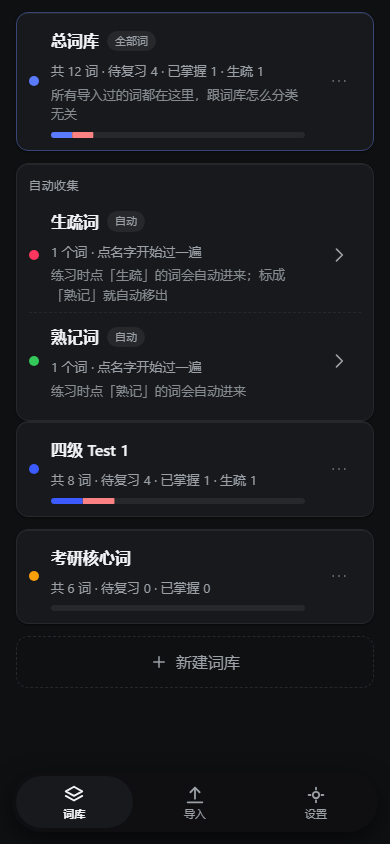
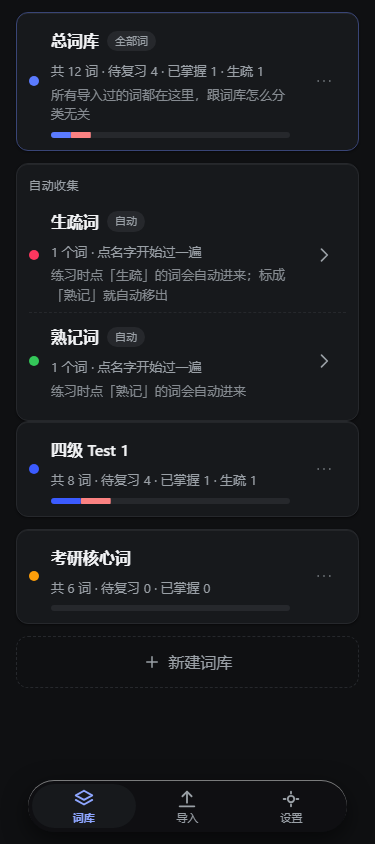
底部胶囊按参考视频收窄 + 换成滑动指示器（v19）
拿用户给的 iCost 录屏逐帧量了几何与动效，然后照着改：

尺寸（量出来的）：胶囊 331×53pt、左右留 30pt、格距 87pt、占屏宽 85%；我们原来是左右 12、占宽 94%。
- 改成左右各 28（= 24+4）、高 52（每格 44，卡住无障碍下限）、占宽 ≈85%。
- 补上玻璃上沿那道细亮边：box-shadow 第二层 inset 0 1px 0 rgb(255 255 255 / 45%)。

动效（视频实测：响应 ≤1 帧、滑动全程 167ms、路过中间格、颜色交叉淡入、到达后冲过一点再回落 ~2.3%、内容不参与动画）：
- 选中态从各格自己换背景改成一颗白药丸滑到目标格（translateX(var(--nav-i) * 100%)），同一时刻只有一个东西在动。
- 时长 170ms（--dur-ui）+ 过冲 2~3%（新增 --ease-nav，比 --ease-spring-soft 的 5% 更贴视频）。
- 图标与文字颜色交叉淡入（--fade-ui）；选中格文字用 --accent-text 变蓝（形状+颜色两条通道）。
- 内容区不做横向位移；prefers-reduced-motion 下位移归零、只留颜色变化。

顺带修一个真 bug：滚动条出现/消失会让底部胶囊宽度横跳 15px（短页面↔长页面切换时可见），
加 html { scrollbar-gutter: stable } 兜住。这个是写动效测试时量出来的。

测试：ui-nav 从 15 项扩到 38 项，其中 5 项直接采样 getComputedStyle 的 transform 逐帧验证
（有没有动、170ms 内到位、过冲 2~8px、最后停在目标格、内容没被推走），另有尺寸/可访问性断言；
a11y 增加减弱动效下指示器不滑动。verify_all 19 步全绿。

diff --git a/tests/browser/ui-nav.test.html b/tests/browser/ui-nav.test.html
@@ -8,58 +8,159 @@
 <pre id="result">{"stage":"running"}</pre>
 <script src="trap.js"></script>
 <script type="module">
-/* 底部悬浮胶囊导航（v18）。
-   用户定的：词库 / 导入 / 设置 三项，导入和设置以前挂在首页页脚，现在收进这里。
+/* 底部悬浮胶囊导航（v18 建立，v19 按参考视频调尺寸 + 换成滑动指示器）。
    跑法：python tool/browser_test.py tests/browser/ui-nav.test.html
 */
-import { click, eq, holdLoad, ok, openApp, report, waitFor } from './harness.js';
+import { click, eq, holdLoad, ok, openApp, report, wait, waitFor } from './harness.js';
 
 const release = holdLoad();
+
+/** 取 computed transform 的横向位移（矩阵的 e 分量），没有 transform 就是 0 */
+function txOf(win, node) {
+  const t = win.getComputedStyle(node).transform;
+  if (!t || t === 'none') return 0;
+  const m = t.match(/matrix\(([^)]+)\)/);
+  return m ? Number(m[1].split(',')[4]) : 0;
+}
 
 try {
   const frame = await openApp({ hash: '#/', sel: '#view-home:not([hidden])' });
   const doc = frame.contentDocument;
+  const win = frame.contentWindow;
+  const bar = doc.querySelector('#tabbar');
   const tabs = [...doc.querySelectorAll('#tabbar a')];
 
   eq('胶囊里是三项', tabs.length, 3);
   eq('三项分别是词库/导入/设置', tabs.map((a) => a.dataset.nav).join(','), 'home,import,settings');
   ok('每项都有内联 SVG 图标', tabs.every((a) => a.querySelector('svg path')), '有的项没有 svg');
-  ok('每项都有可见文字', tabs.every((a) => a.textContent.trim().length > 0), tabs.map((a) => a.textContent.trim()).join('|'));
   eq('在首页时"词库"是当前项', doc.querySelector('#tabbar a[data-nav="home"]').getAttribute('aria-current'), 'page');
   ok('没选中的项不带 aria-current', !doc.querySelector('#tabbar a[data-nav="import"]').hasAttribute('aria-current'));
 
-  // 点按目标：手机上要够大（无障碍）
-  const box = tabs[0].getBoundingClientRect();
-  ok('点按区域 ≥44px 高', box.height >= 44, `${Math.round(box.height)}px`);
-
-  // 悬浮胶囊：内缩 + 离底，不是通栏横条
-  const bar = doc.querySelector('#tabbar').getBoundingClientRect();
+  // ---------------- 尺寸：照着参考视频量出来的比例 ----------------
+  const box = bar.getBoundingClientRect();
   const vw = doc.documentElement.clientWidth;
   const vh = doc.documentElement.clientHeight;
-  ok('胶囊左右内缩（不是通栏横条）', bar.left > 0 && bar.right < vw, `left=${Math.round(bar.left)} right=${Math.round(bar.right)} vw=${vw}`);
-  ok('胶囊底部离屏幕下沿有距离', bar.bottom < vh, `bottom=${Math.round(bar.bottom)} vh=${vh}`);
-  ok('胶囊有圆角（药丸形）', parseFloat(frame.contentWindow.getComputedStyle(doc.querySelector('#tabbar')).borderTopLeftRadius) >= 20,
-     frame.contentWindow.getComputedStyle(doc.querySelector('#tabbar')).borderTopLeftRadius);
-
-  // 内容不能被胶囊盖住：最后一个可见元素的底边要在胶囊顶边之上（或能滚出来）
+  // 固定定位元素的参照宽度：html 的 rect 宽度（不含滚动条槽位，桌面上滚动条会占 15px）
+  const refW = doc.documentElement.getBoundingClientRect().width;
+  ok('胶囊高度 ≈ 52px（视频量到 53pt）', Math.abs(box.height - 52) <= 2, `${box.height.toFixed(1)}px`);
+  ok('左右各留 ≈ 28px（视频里是 30pt，比以前 12px 收窄了一圈）',
+     Math.abs(box.left - 28) <= 2 && Math.abs(refW - box.right - 28) <= 2,
+     `left=${box.left.toFixed(1)} right=${(refW - box.right).toFixed(1)}（参照宽 ${refW.toFixed(0)}px）`);
+  const ratio = box.width / refW;
+  ok('胶囊占宽 ≈ 85%（视频 85%，改前 94%）', ratio > 0.82 && ratio < 0.89, `${(ratio * 100).toFixed(0)}%`);
+  const cell = tabs[0].getBoundingClientRect();
+  ok('每格点按区域 ≥44px 高（无障碍下限）', cell.height >= 44, `${cell.height.toFixed(1)}px`);
+  ok('胶囊底部离屏幕下沿有距离', box.bottom < vh, `bottom=${Math.round(box.bottom)} vh=${vh}`);
+  ok('胶囊是药丸形（圆角 ≥ 高度一半）',
+     parseFloat(win.getComputedStyle(bar).borderTopLeftRadius) >= box.height / 2 - 1,
+     win.getComputedStyle(bar).borderTopLeftRadius);
   const app = doc.querySelector('#app');
-  const padBottom = parseFloat(frame.contentWindow.getComputedStyle(app).paddingBottom);
-  ok('主区底部留白够放胶囊（≥ 胶囊高 + 底距）', padBottom >= bar.height + 8, `padding-bottom=${padBottom} 胶囊高=${Math.round(bar.height)}`);
+  ok('主区底部留白够放胶囊（≥ 胶囊高 + 底距）',
+     parseFloat(win.getComputedStyle(app).paddingBottom) >= box.height + 8,
+     `padding-bottom=${win.getComputedStyle(app).paddingBottom} 胶囊高=${box.height.toFixed(1)}`);
 
+  // ---------------- 指示器：一颗白药丸，切换时滑过去 ----------------
+  const pill = doc.querySelector('#tabbar .nav-pill');
+  ok('只有一个选中指示器', doc.querySelectorAll('#tabbar .nav-pill').length === 1);
+  ok('指示器对读屏隐藏（纯装饰）', pill.getAttribute('aria-hidden') === 'true');
+  ok('指示器不拦点击', win.getComputedStyle(pill).pointerEvents === 'none');
+  const pillBox = pill.getBoundingClientRect();
+  ok('指示器宽度 ≈ 一格宽（这样 translateX(100%) 正好走一格）',
+     Math.abs(pillBox.width - cell.width) <= 2,
+     `pill=${pillBox.width.toFixed(1)} cell=${cell.width.toFixed(1)}`);
+  ok('首屏指示器在左边第一格', Math.abs(pillBox.left - cell.left) <= 2,
+     `pill.left=${pillBox.left.toFixed(1)} cell.left=${cell.left.toFixed(1)}`);
+  eq('首屏 --nav-i = 0', bar.style.getPropertyValue('--nav-i'), '0');
+  eq('--nav-count 写成了 3', bar.style.getPropertyValue('--nav-count'), '3');
+
+  // 切换：先看状态变量（确定性），再看动画真的把药丸送到了目标格
   click(doc.querySelector('#tabbar a[data-nav="settings"]'));
-  await waitFor(() => frame.contentWindow.location.hash.includes('settings'), { label: '去设置' });
+  await waitFor(() => win.location.hash.includes('settings'), { label: '去设置' });
   await waitFor(() => doc.querySelector('[data-testid="settings-version"]'), { label: '设置页渲染' });
-  eq('在设置页时"设置"是当前项', doc.querySelector('#tabbar a[data-nav="settings"]').getAttribute('aria-current'), 'page');
+  eq('设置页时 --nav-i = 2', bar.style.getPropertyValue('--nav-i'), '2');
+  eq('设置页时"设置"是当前项', doc.querySelector('#tabbar a[data-nav="settings"]').getAttribute('aria-current'), 'page');
   eq('切页后"词库"不再是当前项', doc.querySelector('#tabbar a[data-nav="home"]').getAttribute('aria-current'), null);
+  await wait(400); // 等 170ms 的滑动走完
+  const target = doc.querySelector('#tabbar a[data-nav="settings"]');
+  const pillNow = doc.querySelector('#tabbar .nav-pill');
+  ok('指示器滑到了"设置"那一格（不是各格自己换背景）',
+     Math.abs(pillNow.getBoundingClientRect().left - target.getBoundingClientRect().left) <= 2,
+     `pill.left=${pillNow.getBoundingClientRect().left.toFixed(1)} target.left=${target.getBoundingClientRect().left.toFixed(1)}`);
 
   click(doc.querySelector('#tabbar a[data-nav="import"]'));
   await waitFor(() => doc.body.dataset.view === 'import', { label: '去导入' });
-  eq('在导入页时"导入"是当前项', doc.querySelector('#tabbar a[data-nav="import"]').getAttribute('aria-current'), 'page');
+  eq('导入页时 --nav-i = 1（中间格）', bar.style.getPropertyValue('--nav-i'), '1');
+  eq('导入页时"导入"是当前项', doc.querySelector('#tabbar a[data-nav="import"]').getAttribute('aria-current'), 'page');
+  await wait(400);
+  const importTab = doc.querySelector('#tabbar a[data-nav="import"]');
+  ok('指示器又在中间格上',
+     Math.abs(doc.querySelector('#tabbar .nav-pill').getBoundingClientRect().left - importTab.getBoundingClientRect().left) <= 2);
+
+  // 颜色是第二条通道：选中的那格颜色跟没选中的不一样
+  const cOn = win.getComputedStyle(doc.querySelector('#tabbar a[aria-current="page"]')).color;
+  const cOff = win.getComputedStyle(doc.querySelector('#tabbar a:not([aria-current])')).color;
+  ok('选中格的文字/图标颜色与未选中不同（形状之外的第二条通道）', cOn !== cOff, `${cOn} vs ${cOff}`);
+  ok('选中格字重更重', Number(win.getComputedStyle(doc.querySelector('#tabbar a[aria-current="page"]')).fontWeight) >= 600);
+
+  // ---------------- 动效：照着参考视频量到的那套（约 170ms + 一点点过冲）----------------
+  // 直接采样 getComputedStyle 的 transform，逐帧看它怎么走 —— 比截图更能说明问题
+  click(doc.querySelector('#tabbar a[data-nav="home"]'));
+  await waitFor(() => doc.body.dataset.view === 'home', { label: '回首页' });
+  await wait(400);
+
+  // 先把几何量准：指示器的位移是相对它自己的宽度，所以目标 = 它自己的宽度 × 格数
+  const pill0 = doc.querySelector('#tabbar .nav-pill');
+  const pillW = pill0.getBoundingClientRect().width;
+  const homeCellW = doc.querySelector('#tabbar a[data-nav="home"]').getBoundingClientRect().width;
+  ok('指示器宽度 = 一格宽（否则 translateX(100%) 走不满一格）', Math.abs(pillW - homeCellW) <= 1,
+     `pill=${pillW.toFixed(2)} cell=${homeCellW.toFixed(2)}`);
+  const barWHome = bar.getBoundingClientRect().width;
+
+  const samples = await new Promise((resolve) => {
+    const out = [];
+    const p = doc.querySelector('#tabbar .nav-pill');
+    const t0 = performance.now();
+    click(doc.querySelector('#tabbar a[data-nav="settings"]')); // 0 → 2，走两格
+    const tick = () => {
+      out.push([performance.now() - t0, txOf(win, p)]);
+      if (performance.now() - t0 < 500) requestAnimationFrame(tick);
+      else resolve(out);
+    };
+    requestAnimationFrame(tick);
+  });
+  await waitFor(() => doc.body.dataset.view === 'settings', { label: '切到设置' });
+
+  const targetTx = pillW * 2;
+  const maxTx = Math.max(...samples.map((s) => s[1]));
+  let settleAt = 0; // 最后一次"还没到终点"的时刻
+  for (const [t, tx] of samples) if (Math.abs(tx - targetTx) > 1) settleAt = t;
+  const timeline = samples.filter((_, i) => i % 3 === 0).map(([t, tx]) => `${t.toFixed(0)}ms→${tx.toFixed(0)}px`).join('  ');
+  ok('指示器确实在动（采到了位移中间帧）', samples.filter((s) => Math.abs(s[1]) > 0.5).length >= 3, timeline);
+  ok('走两格 ≈ 170ms 内到位（视频量到 167ms）', settleAt >= 110 && settleAt <= 260,
+     `settleAt=${settleAt.toFixed(0)}ms；采样：${timeline}`);
+  ok('冲过终点再回落，过冲 2~6px（视频里也有这个"过冲"，约 2~3%）',
+     maxTx - targetTx >= 2 && maxTx - targetTx <= 8,
+     `过冲 ${(maxTx - targetTx).toFixed(1)}px（终点 ${targetTx.toFixed(1)}px）`);
+  ok('最后稳稳停在目标格上', Math.abs(samples.at(-1)[1] - targetTx) <= 1,
+     `末帧 ${samples.at(-1)[1].toFixed(1)}px vs 目标 ${targetTx.toFixed(1)}px`);
+  ok('内容区没有被一起推走（切 tab 不做横向位移）',
+     (doc.querySelector('#app') && win.getComputedStyle(doc.querySelector('#app')).transform === 'none'),
+     win.getComputedStyle(doc.querySelector('#app')).transform);
+  // 滚动条槽位固定住了：短页面（首页）和长页面（设置）里胶囊一样宽，不会横跳
+  ok('短/长页面里胶囊宽度一致（scrollbar-gutter 兜住了）',
+     Math.abs(bar.getBoundingClientRect().width - barWHome) <= 1,
+     `首页 ${barWHome.toFixed(1)}px vs 设置页 ${bar.getBoundingClientRect().width.toFixed(1)}px`);
+
+  // 子界面（词条页）里指示器停在它所属的"词库"格
+  win.location.hash = '#/word';
+  await waitFor(() => doc.body.dataset.view === 'word', { label: '去词条页' });
+  eq('词条页时指示器回到"词库"格（0）', bar.style.getPropertyValue('--nav-i'), '0');
+  ok('但词条页不给任何一格 aria-current', !doc.querySelector('#tabbar a[aria-current]'));
 
   // 练习页不显示胶囊（沉浸式，避免误触退出）
-  frame.contentWindow.location.hash = '#/practice';
+  win.location.hash = '#/practice';
   await waitFor(() => doc.body.dataset.view === 'practice', { label: '切到练习' });
-  eq('练习页隐藏胶囊', frame.contentWindow.getComputedStyle(doc.querySelector('#tabbar')).display, 'none');
+  eq('练习页隐藏胶囊', win.getComputedStyle(bar).display, 'none');
 } catch (e) {
   ok('导航测试脚本本身不能崩', false, (e && e.stack) || String(e));
 }

diff --git a/style.css b/style.css
@@ -63,6 +63,8 @@
    */
   --ease-out-quint: cubic-bezier(0.22, 1, 0.36, 1);
   --ease-spring-soft: cubic-bezier(0.34, 1.4, 0.64, 1);
+  /* 底部指示器专用：过冲量按参考视频量到的比例调过（约 2~3%，不是 spring-soft 的 5%） */
+  --ease-nav: cubic-bezier(0.34, 1.2, 0.64, 1);
   --dur-tap: 110ms;   /* 按下/抬起这种高频微反馈 */
   --dur-ui: 170ms;    /* 常规进场出场 */
   --dur-big: 240ms;   /* 罕见事件（新版本横幅、小结） */
@@ -112,6 +114,9 @@ html {
   -webkit-tap-highlight-color: transparent;
   -webkit-text-size-adjust: 100%;
   overscroll-behavior: none;
+  /* 纵向滚动条出现/消失会让底部悬浮胶囊的宽度跟着变（切换"短页面↔长页面"时胶囊会横跳 15px）。
+     留出固定的滚动条槽位，宽度就稳了；iOS 的 overlay 滚动条本来就不占位，等于无副作用。 */
+  scrollbar-gutter: stable;
 }
 
 button, a, [role='button'], .chip, .lib-row, label {
@@ -180,41 +185,61 @@ body {
 
 .placeholder { color: var(--muted); text-align: center; }
 
-/* 底部导航：内缩的悬浮胶囊 + 毛玻璃（内容从它下面穿过去），不是通栏横条 */
+/* 底部导航：内缩的悬浮胶囊 + 毛玻璃（内容从它下面穿过去），不是通栏横条。
+   尺寸是照着参考视频逐帧量出来的比例定的（见 docs/plans/2026-09-26-home-nav-v18.md 的后续）：
+   左右各留 28（= 24 + 4）、整体高 52、三格等宽（每格 44 高，正好卡住无障碍的 44pt 下限）。 */
 #tabbar {
   position: fixed;
-  left: var(--sp-3);
-  right: var(--sp-3);
+  left: calc(var(--sp-5) + var(--sp-1));
+  right: calc(var(--sp-5) + var(--sp-1));
   bottom: calc(var(--sp-3) + var(--safe-b));
   display: flex;
-  gap: var(--sp-1);
   padding: var(--sp-1);
   border-radius: var(--r-full);
   background: color-mix(in srgb, var(--bg) 78%, transparent);
   backdrop-filter: blur(20px) saturate(180%);
-  box-shadow: var(--shadow-2);
+  /* 第二层是玻璃上沿那道细亮边（视频里能看到），不是普通投影 */
+  box-shadow: var(--shadow-2), inset 0 1px 0 rgb(255 255 255 / 45%);
   transition: transform var(--dur-ui) var(--ease-out-quint), opacity var(--dur-ui) var(--ease-out-quint);
 }
 /* 键盘弹出时把底部导航收起来（否则它会浮在键盘上面） */
 body[data-keyboard='open'] #tabbar { transform: translateY(160%); opacity: 0; pointer-events: none; }
 
+/* 选中指示器：一颗白药丸，切换时"滑"到目标格 —— 同一时刻只有一个东西在动。
+   --nav-i / --nav-count 由 app.js 按当前界面写进来。
+   170ms + 轻微过冲（--ease-spring-soft），对应视频里量到的"167ms、冲过一点再回落"。 */
+#tabbar .nav-pill {
+  position: absolute;
+  top: var(--sp-1);
+  bottom: var(--sp-1);
+  left: var(--sp-1);
+  width: calc((100% - var(--sp-1) * 2) / var(--nav-count, 3));
+  border-radius: var(--r-full);
+  background: var(--card);
+  transform: translateX(calc(var(--nav-i, 0) * 100%));
+  transition: transform var(--dur-ui) var(--ease-nav);
+  pointer-events: none;
+}
+
 #tabbar a {
+  position: relative;   /* 压在药丸上面 */
   flex: 1;
-  max-width: 200px;
   display: grid;
   justify-items: center;
   gap: 2px;
-  min-height: 48px;
-  padding: 8px var(--sp-1);
+  min-height: 44px;
+  padding: var(--sp-1);
   border-radius: var(--r-full);
   color: var(--muted);
   text-decoration: none;
   font-size: 11px;
   line-height: 1.1;
+  /* 颜色也是交叉淡入：旧的先褪、新的再亮，不跟位移硬切在一起 */
+  transition: color var(--fade-ui) ease;
 }
 #tabbar a svg { display: block; }
-/* 选中态两条通道：药丸底（形状）+ 颜色与字重，不只靠颜色 */
-#tabbar a[aria-current='page'] { background: var(--card); color: var(--fg); font-weight: 650; }
+/* 选中态两条通道：药丸底（形状）+ 图标与文字变蓝（颜色），不只靠颜色一种 */
+#tabbar a[aria-current='page'] { color: var(--accent-text); font-weight: 650; }
 #tabbar a:focus-visible { outline: 2px solid var(--accent); outline-offset: 2px; }
 
 /* 系统要求"减少透明"时毛玻璃会糊住内容，换实底 */

diff --git a/src/app.js b/src/app.js
@@ -63,10 +63,20 @@ export function show(name, params = {}) {
   }
   current = { name, params };
   document.body.dataset.view = name;
-  // 底部导航的"当前项"：视觉靠 CSS 的 [aria-current='page']，语义也靠它（读屏会说"当前页"）
-  for (const a of document.querySelectorAll('#tabbar a')) {
+  // 底部导航：语义上的"当前项"（aria-current）只给真正对应的那一格；
+  // 视觉上的指示器（白药丸）在 word/practice 这种子界面里停在它所属的那一格。
+  const TAB_OF_VIEW = { home: 'home', import: 'import', settings: 'settings', word: 'home', practice: 'home' };
+  const tabs = [...document.querySelectorAll('#tabbar a')];
+  const activeKey = TAB_OF_VIEW[name] || 'home';
+  const idx = Math.max(0, tabs.findIndex((a) => a.dataset.nav === activeKey));
+  for (const a of tabs) {
     if (a.dataset.nav === name) a.setAttribute('aria-current', 'page');
     else a.removeAttribute('aria-current');
+  }
+  const bar = document.getElementById('tabbar');
+  if (bar) {
+    bar.style.setProperty('--nav-count', String(tabs.length || 3));
+    bar.style.setProperty('--nav-i', String(idx));
   }
   delete document.body.dataset.ready;
   const fn = RENDER[name];

diff --git a/tests/browser/a11y.test.html b/tests/browser/a11y.test.html
@@ -130,6 +130,15 @@ try {
     ok('没开减弱动效时，进度条是有过渡的（这条是上一条的对照）', dur !== '0s', `transition-duration=${dur}`);
   }
 
+  // ---------------- 减弱动效（底部指示器也要听话）----------------
+  const pillEl = motionFrame.contentDocument.querySelector('#tabbar .nav-pill');
+  const pillDur = motionFrame.contentWindow.getComputedStyle(pillEl).transitionDuration;
+  if (reduced) {
+    ok('开了"减弱动效"时指示器不再滑动（位移归零）', pillDur === '0s', `transition-duration=${pillDur}`);
+  } else {
+    ok('没开减弱动效时指示器是滑的（上一条的对照）', pillDur !== '0s', `transition-duration=${pillDur}`);
+  }
+
   // ---------------- 层次与焦点圈 ----------------
   const style2 = motionFrame.contentWindow.getComputedStyle.bind(motionFrame.contentWindow);
   const cardEl = motionFrame.contentDocument.querySelector('.card');

diff --git a/src/version.js b/src/version.js
@@ -6,7 +6,7 @@
  *   version.json 的 version         ← 服务端"应该是最新版"的版本，应用用 no-store 取它做对比
  * tool/verify_sw.py 会检查三者一致，改漏了会红。
  */
-export const APP_VERSION = 'v18';
+export const APP_VERSION = 'v19';
 
 /** 版本探测文件：每次启动都用 no-store 拉一次，用来发现"服务端已经更新了" */
 export const VERSION_URL = 'version.json';

diff --git a/index.html b/index.html
@@ -30,6 +30,7 @@
   <section id="view-settings" class="view" hidden></section>
 </main>
 <nav id="tabbar" aria-label="主导航">
+  <span class="nav-pill" aria-hidden="true"></span>
   <a href="#/"          data-nav="home"     data-testid="tab-home">词库</a>
   <a href="#/import"    data-nav="import"   data-testid="tab-import">导入</a>
   <a href="#/settings"  data-nav="settings" data-testid="tab-settings">设置</a>

diff --git a/sw.js b/sw.js
@@ -11,7 +11,7 @@
  * ⚠ version.json **不要**放进 ASSETS：应用要用 no-store 取它来发现新版本，缓存住就没用了。
  * ⚠ ASSETS 清单必须和真实文件一一对应；tool/verify_sw.py 会逐个检查。
  */
-const VERSION = 'v18';
+const VERSION = 'v19';
 const CACHE = `vocab-${VERSION}`;
 
 const ASSETS = [

diff --git a/SPEC.md b/SPEC.md
@@ -154,6 +154,12 @@
 - **底部悬浮胶囊**（`#tabbar`）：**词库 / 导入 / 设置** 三项，毛玻璃、圆角药丸、选中项 `aria-current="page"`
   - 练习页隐藏；键盘弹出时收起；`prefers-reduced-transparency: reduce` 时换实底；宽屏收成 420px 居中
   - 导入与设置原本是首页页脚的两个按钮，v18 收进这里
+  - **尺寸（v19，按参考视频逐帧量出来的比例）**：左右各留 28px、整体高 52px、每格 44px（无障碍下限）、
+    占宽约 85%（改前 94%）；上沿带一道玻璃高光（`inset 0 1px 0 rgb(255 255 255 / 45%)`）
+  - **选中指示器（v19）**：不是"各格自己换背景"，而是**一颗白药丸滑到目标格**（`translateX(var(--nav-i) * 100%)`）——
+    同一时刻只有一个东西在动。170ms（`--dur-ui`）+ 约 2~3% 过冲（`--ease-nav`），图标与文字颜色
+    同时交叉淡入（`--fade-ui`）；**内容区不做横向位移**。`prefers-reduced-motion` 下位移归零、只留颜色变化
+  - `html { scrollbar-gutter: stable }`：避免"短页面 ↔ 长页面"切换时滚动条抢占宽度、胶囊横跳
 - 「补齐音标」也从首页搬到 **设置 → 本机数据**
 
 ### 7.0.1 删除词库（v18）：只删库，不删词
@@ -253,6 +259,8 @@
   中文界面/按钮/释义一律系统无衬线；中→英方向不用衬线（中文衬线跨系统差异大）
 - 只动 `transform` / `opacity`（GPU）；绝不动 `width`/`height`/`top`/`left`
 - 时长走令牌：`--dur-tap` 110ms（高频微反馈）/ `--dur-ui` 170ms（常规）/ `--dur-big` 240ms（罕见）
+- 缓动走令牌：`--ease-out-quint`（进场）、`--ease-spring-soft`（过冲 5%）、`--ease-nav`（底部指示器
+  专用，过冲 2~3%，来自参考视频的逐帧测量）
 - 进场用强 ease-out（`--ease-out-quint`），**不用** `ease-in`；不用 `scale(0)`，从 `scale(0.97)`+透明度起
 - 手势（过一遍模式的左右滑动）用 CSS transition 重新定位 + 速度/距离阈值，**可打断**，不用 keyframes 重放
 - 高频操作（打字、切标签、列表滚动）**不加**动效
@@ -290,6 +298,7 @@
 | 2026-09-26 | UI 打磨批次二（v16）：首页信息层级（大数字 + 智能库合并 + 三段进度条）、空状态可操作、焦点圈与键盘、深色层次、配色达标（含 `prefers-contrast`） | `verify_all.py` → 17 步全绿；新增 `tool/check_contrast.py`（四种处境 × AA/AAA） |
 | 2026-09-26 | UI 打磨批次三（v17）：图标改内联 SVG、宽屏两栏 | `verify_all.py` → 17 步全绿；`tool/check_live.py` 报线上 26/26 一致（换行归一后）+ 版本 v17 |
 | 2026-09-26 | UI 批次四（v18）：首页只留词库（新增"总词库"钉在顶部）、导入/设置收进底部三项悬浮胶囊、词库可删除（只删库不删词 + 撤销） | `verify_all.py` → 19 步全绿（新增 ui-nav / ui-lib-delete 两步）；`node --test` 117 项 |
+| 2026-09-26 | UI 批次五（v19）：底部胶囊按参考视频（iCost 录屏）逐帧量出的比例收窄（85% 宽 / 高 52），选中态改成"白药丸滑过去 + 颜色交叉淡入 + 2~3% 过冲"（实测 170ms 内到位） | `verify_all.py` → 19 步全绿；`ui-nav` 38 项（含逐帧采样的动效断言）；线上 v19 |
 
 > 第 1 版的验收到此结束。以后每改一版，先跑 `python tool\verify_all.py` 再 `git push`（Pages 会自动重建）。
 
